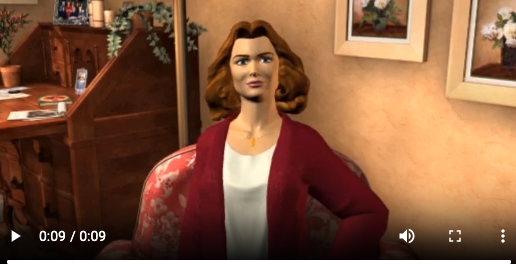
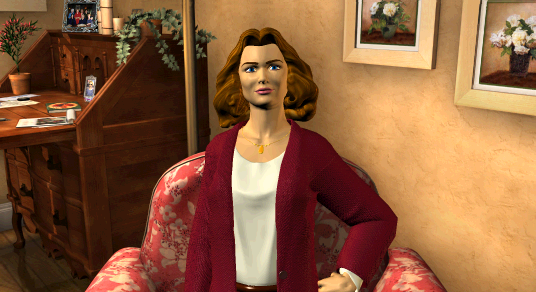
Changed Mattie's default picture to high quality one.

diff --git a/script/interaction_mattie_first.js b/script/interaction_mattie_first.js
@@ -283,7 +283,7 @@ function someoneSentHimABrokenWatch() {
 function nancyImRunningLate() {
     document.getElementById("video")
         .innerHTML = `
-            <video class="SoundOfVoice" id="currentVideo" playsinline controls autoplay onended="defaultMattieImage();">
+            <video class="SoundOfVoice" id="currentVideo" playsinline controls autoplay">
                 <source src="video/mattie_nancyimrunninglate.webm" type="video/webm">
             </video>
             `
@@ -302,7 +302,7 @@ function nancyImRunningLate() {
 function ohBeforeIForget() {
     document.getElementById("video")
         .innerHTML = `
-            <video class="SoundOfVoice" id="currentVideo" onended="removeInventoryGif(); defaultMattieImage();" playsinline controls autoplay>
+            <video class="SoundOfVoice" id="currentVideo" onended="removeInventoryGif();" playsinline controls autoplay>
                 <source src="video/mattie_ohbeforeiforget.webm" type="video/webm">
             </video>`
         setVoiceVolume();
